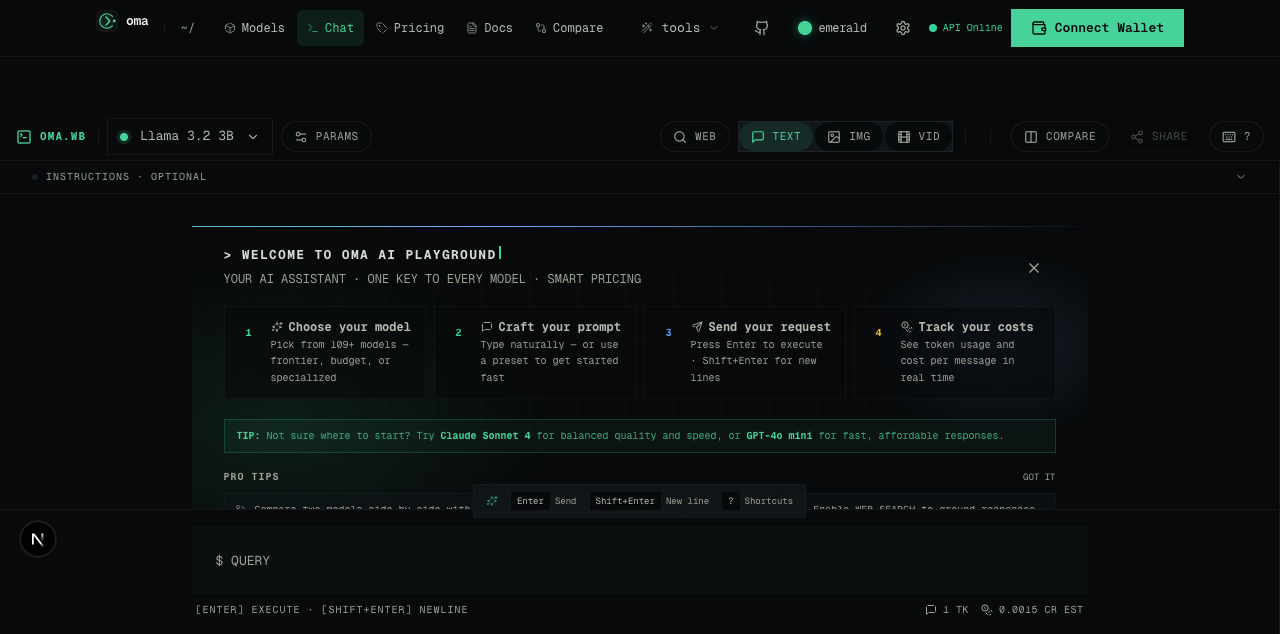
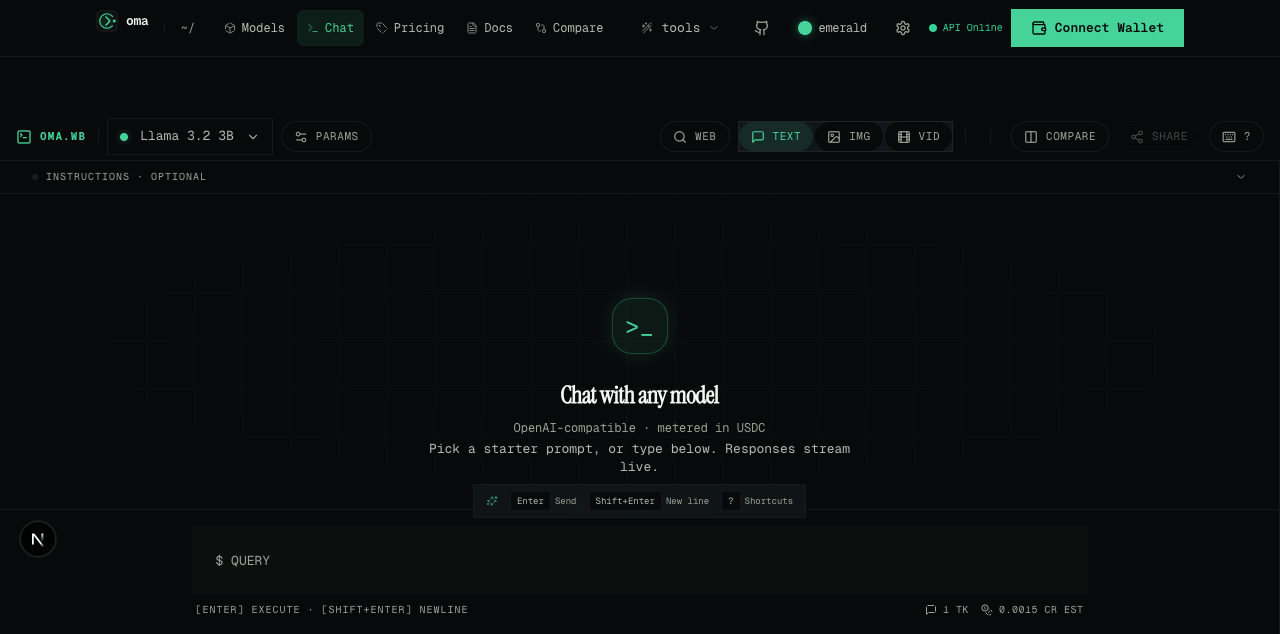
feat(ui): surface 25 Venice image models + refresh stale docs + screenshots
- Replace 4 hardcoded stale image model IDs in ImageGenerationPanel with all 25 live Venice image models (FLUX 2, GPT Image, Hunyuan, Ideogram, Recraft, Qwen Image, Wan, Seedream, Luma, Nano Banana, Krea, Chroma, Z-Image, Bria bg-remover, Anime WAI) — matches /v1/models catalog
- Fix stale docs text saying image models were 'not in /v1/models catalog' (fixed in commit d46fadc)
- Refresh image-generation, video-generation, chat screenshots

All 768 server tests pass, both app + server typecheck clean

diff --git a/app/src/components/chat/ImageGenerationPanel.tsx b/app/src/components/chat/ImageGenerationPanel.tsx
@@ -8,14 +8,37 @@ import {
 	Sparkles,
 } from "lucide-react";
 import Image from "next/image";
-import { useCallback, useState } from "react";
+import { useCallback, useEffect, useState } from "react";
 import { useImageGeneration } from "@/lib/use-image-generation";
 
+// Live catalog from /v1/models — kept in sync with server/models.json IMAGE_MODELS.
+// Names mirror Venice's "model_spec.name" so the dropdown matches the upstream labels.
 const IMAGE_MODELS = [
-	{ id: "sdxl", name: "SDXL" },
-	{ id: "flux-schnell", name: "Flux Schnell" },
-	{ id: "flux-pro", name: "Flux Pro" },
-	{ id: "stable-diffusion-3.5", name: "Stable Diffusion 3.5" },
+	{ id: "venice-sd35", name: "Venice SD35" },
+	{ id: "flux-2-pro", name: "Flux 2 Pro" },
+	{ id: "flux-2-max", name: "Flux 2 Max" },
+	{ id: "gpt-image-1-5", name: "GPT Image 1.5" },
+	{ id: "hunyuan-image-v3", name: "Hunyuan Image 3.0" },
+	{ id: "ideogram-v4", name: "Ideogram V4" },
+	{ id: "imagineart-1.5-pro", name: "ImagineArt 1.5 Pro" },
+	{ id: "krea-v2-large", name: "Krea v2 Large" },
+	{ id: "krea-v2-medium", name: "Krea v2 Medium" },
+	{ id: "luma-uni-1", name: "Luma Uni-1" },
+	{ id: "luma-uni-1-max", name: "Luma Uni-1 Max" },
+	{ id: "nano-banana-2-lite", name: "Nano Banana 2 Lite" },
+	{ id: "recraft-v4", name: "Recraft V4" },
+	{ id: "recraft-v4-pro", name: "Recraft V4 Pro" },
+	{ id: "seedream-v4", name: "Seedream V4.5" },
+	{ id: "seedream-v5-lite", name: "Seedream V5 Lite" },
+	{ id: "qwen-image-2", name: "Qwen Image 2" },
+	{ id: "qwen-image-2-pro", name: "Qwen Image 2 Pro" },
+	{ id: "wan-2-7-text-to-image", name: "Wan 2.7" },
+	{ id: "wan-2-7-pro-text-to-image", name: "Wan 2.7 Pro" },
+	{ id: "qwen-image", name: "Qwen Image" },
+	{ id: "wai-Illustrious", name: "Anime (WAI)" },
+	{ id: "z-image-turbo", name: "Z-Image Turbo" },
+	{ id: "chroma", name: "Chroma" },
+	{ id: "bria-bg-remover", name: "Background Remover" },
 ];
 
 const SIZE_OPTIONS = [

diff --git a/app/src/app/docs/sections/shared.tsx b/app/src/app/docs/sections/shared.tsx
@@ -242,10 +242,10 @@ export const ENDPOINTS: EndpointInfo[] = [
 		path: "/v1/images/generations",
 		anchor: "ep-images",
 		title: "Image Generation",
-		desc: "Text-to-image via Venice FLUX models (passthrough — not in /v1/models catalog). Pricing is per-image.",
+		desc: "Text-to-image via Venice image models (FLUX, GPT Image, Ideogram, Recraft, Qwen Image, Wan, Hunyuan, Seedream, Luma, Nano Banana, Krea, Chroma, Z-Image — listed in /v1/models). Pricing is per-image; markup is applied on top of wholesale.",
 		auth: "Bearer token (API key) or PAYMENT-SIGNATURE (x402)",
 		body: {
-			model: 'string (required), e.g. "flux-schnell" (Venice passthrough)',
+			model: 'string (required), e.g. "flux-2-pro" (see GET /v1/models for all image models)',
 			prompt: "string (required), max 4000 chars",
 			n: "integer 1 to 10 (optional, default 1)",
 			size: 'string (optional), e.g. "1024x1024"',
